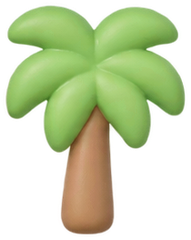
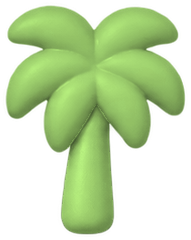
Palm in a single green
Claude-Session: https://claude.ai/code/session_01Vzy17NNxtEB3o1KmzLVE99

diff --git a/index.html b/index.html
@@ -703,7 +703,7 @@ const texName=id=>CONFIG.textures.find(t=>t.id===id)?.label||"";
 
 function rgb(h){ const n=parseInt(h.slice(1),16); return [(n>>16)&255,(n>>8)&255,n&255]; }
 /* recolour a shape image to any colour, keeping its 3D shading */
-const SHAPE_L={boat:.773,bow:.722,butterfly:.685,car:.422,castle:.791,cloud:.724,crown:.755,dino:.679,dolphin:.642,elephant:.645,flower:.818,giraffe:.75,heart:.689,leaf:.69,lion:.716,octopus:.679,palm:.641,rocket:.494,snake:.687};
+const SHAPE_L={boat:.773,bow:.722,butterfly:.685,car:.422,castle:.791,cloud:.724,crown:.755,dino:.679,dolphin:.642,elephant:.645,flower:.818,giraffe:.75,heart:.689,leaf:.69,lion:.716,octopus:.679,palm:.664,rocket:.494,snake:.687};
 const tints={};
 function tint(id,hex){
   const fid=`t-${id}-${hex.slice(1)}`;
